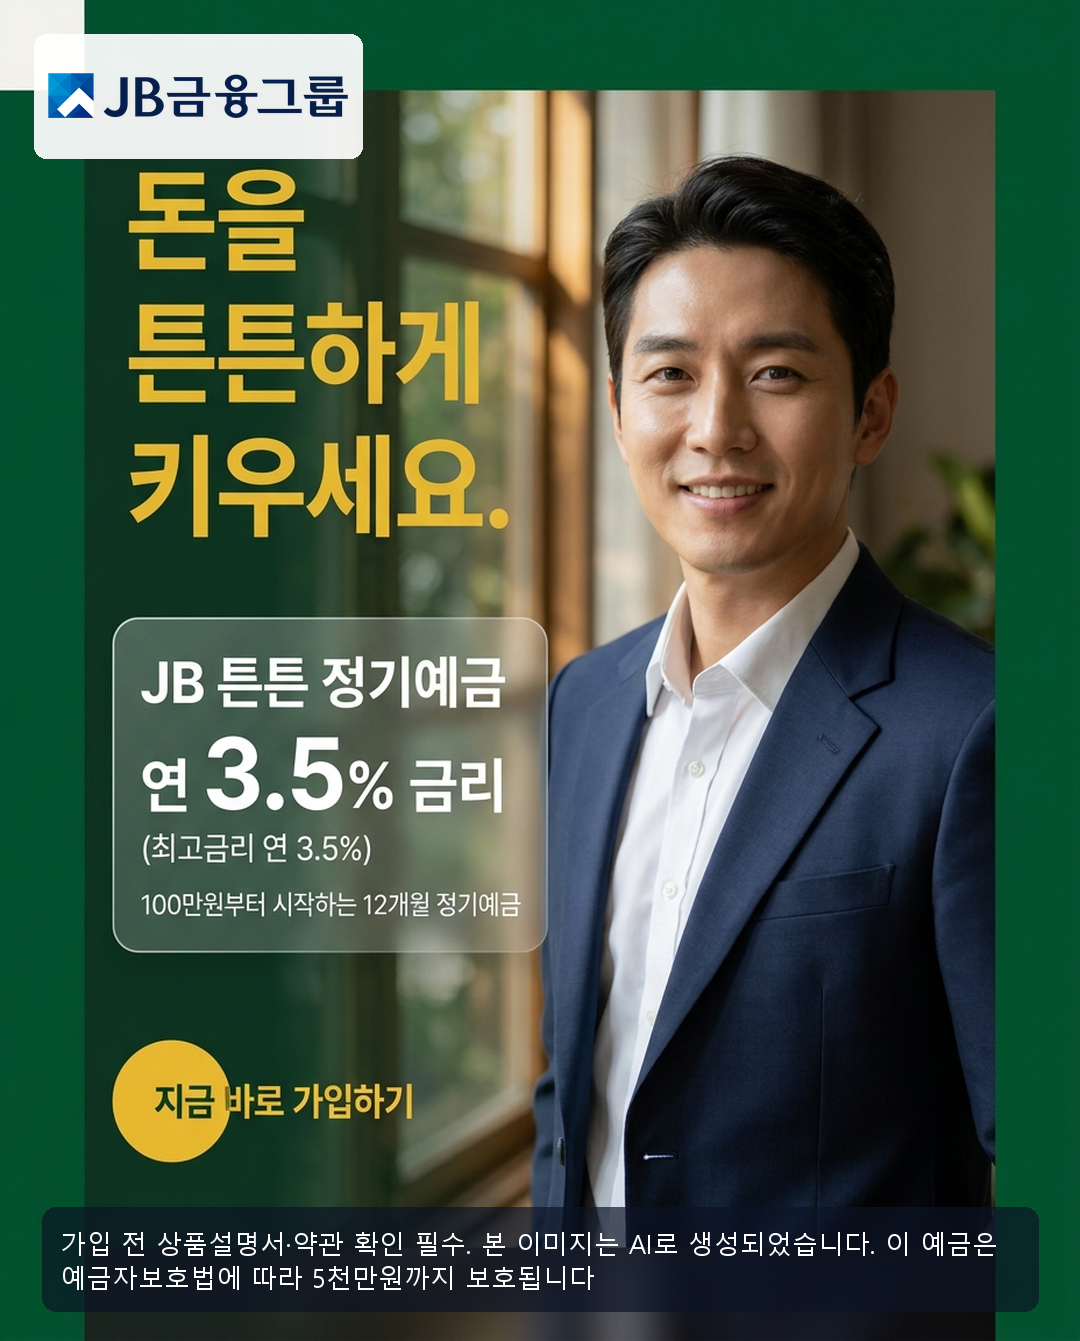
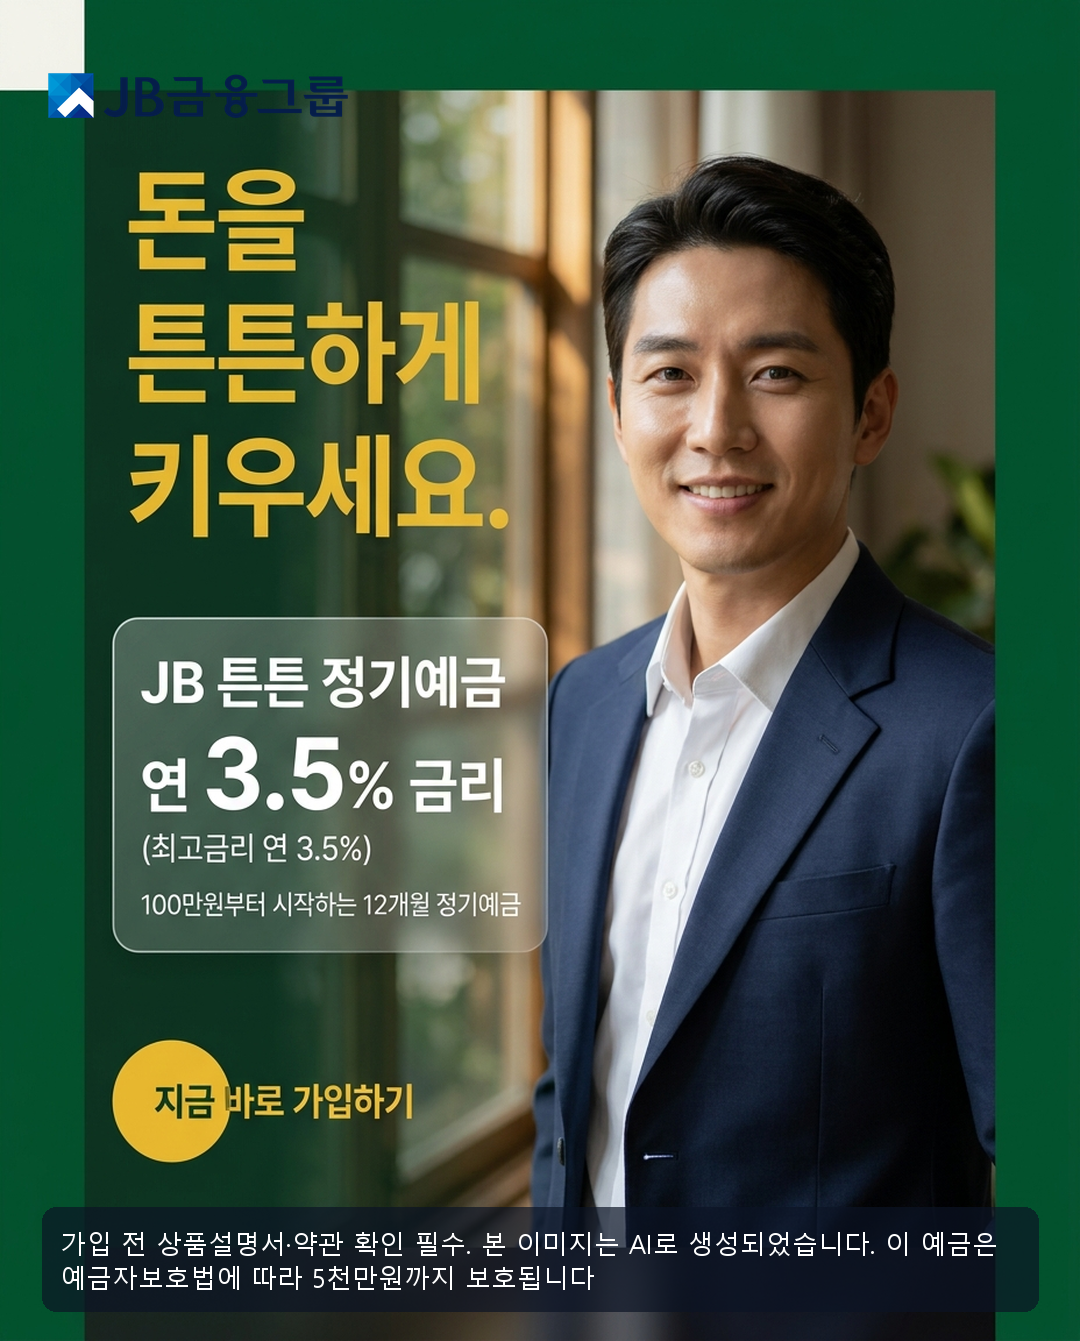
feat(design): 로고 플레이트 제거 — 베이크 세이프존 코너 + 정확 오버레이
플레이트(로고 뒤 흰 카드)가 '얹힌 카드'처럼 포스터와 정합성이 떨어진다는 피드백.
제거하고, 베이크가 좌상단을 밝게 비우게 한 세이프존 코너에 정확한 로고를 오버레이하는
방식으로 확정(베이크=코너 배경, 오버레이=브랜드 정확 로고 — 로고 베이크는 왜곡 위험).
통합감 + 브랜드 정확성 동시 확보. 합성 증빙(composite/) no-plate로 갱신.

scene 테스트 20개(sceneAssembler/sceneWiring/sceneWins) 통과.

Changed region(s): [[0.0306, 0.0, 0.3361, 0.1223]]

diff --git a/frontend/lib/sceneAssembler.ts b/frontend/lib/sceneAssembler.ts
@@ -69,20 +69,9 @@ function scrimFor(bb: BBox, color: string, role: string): any {
   };
 }
 
-/** 로고 뒤 밝은 라운드 플레이트(대비 보장). 배경이 어두우면 네이비 로고가 묻히므로(실측)
- *  로고 bbox보다 살짝 크게 반투명 화이트 판을 깔아 배경과 무관한 가독성을 확보한다
- *  (실제 은행 포스터의 로고 락업 방식). role="logo_plate"라 scrim 카운트에 영향 없음. */
-function logoPlate(bb: BBox): any {
-  const pad = 14;
-  return {
-    type: "rect", left: bb.x - pad, top: bb.y - pad,
-    width: bb.w + pad * 2, height: bb.h + pad * 2,
-    fill: "rgba(255,255,255,0.92)", rx: 12, ry: 12,
-    role: "logo_plate", slotId: "logo",
-  };
-}
-
-/** layout.spec + 언어 → Fabric JSON(toJSON 호환). assetUrl로 asset_ref 해석. */
+/** layout.spec + 언어 → Fabric JSON(toJSON 호환). assetUrl로 asset_ref 해석.
+ *  로고는 별도 플레이트 없이 베이크가 남긴 밝은 세이프존 코너 위에 정확한 오버레이로 얹는다
+ *  (플레이트는 얹힌 카드처럼 정합성이 떨어져 제거 — 베이크가 코너 배경을 담당, 오버레이가 정확 로고). */
 export function assembleScene(
   spec: LayoutSpec, lang: string, assetUrl: (ref: string) => string,
 ): FabricScene {
@@ -101,10 +90,7 @@ export function assembleScene(
         const ref = s.role === "background"
           ? (spec.visual_by_lang?.[lang] ?? s.asset_ref)
           : s.asset_ref;
-        const img = { ...common, type: "image", src: ref ? assetUrl(ref) : "" };
-        // 로고는 대비 보장용 밝은 플레이트를 뒤에 깔고(먼저 방출=낮은 z) 그 위에 로고 이미지.
-        if (s.role === "logo") return [logoPlate(bb), img];
-        return [img];
+        return [{ ...common, type: "image", src: ref ? assetUrl(ref) : "" }];
       }
       // 헤드라인/바디/CTA는 배경에 베이크됨 → 어떤 객체도 방출하지 않음. disclosure만 오버레이.
       if (s.role !== "disclosure") return [];

diff --git a/docs/finals/evidence/live-real-api-rich/README.md b/docs/finals/evidence/live-real-api-rich/README.md
@@ -36,11 +36,13 @@ factsheet를 못 받음. **이중 방어로 차단**:
 금리카드 + 하단 법정 고지 스트립. 완결된 은행 포스터 품질.
 
 폴리시 2건:
-- **로고 대비**: 어두운 배경 위 네이비 로고가 묻히던 문제 → sceneAssembler `logoPlate`가
-  로고 뒤에 밝은 라운드 플레이트를 깔아 배경 무관 가독성 확보(로고 락업 방식).
-- **CTA/고지 겹침**: `_bake_prompt` 세이프존 강화(좌상단 로고 자리 밝게 비우기 + 최하단
-  고지 스트립 예약, CTA는 그 위에)로 CTA가 고지 영역에 침범하지 않게 함. 튼튼 재생성으로
-  겹침 해소 확인.
+- **로고 대비·정합성**: 어두운 배경 위 네이비 로고가 묻히던 문제. 초기엔 로고 뒤 밝은
+  플레이트를 시도했으나 "얹힌 카드"처럼 정합성이 떨어져 제거. 대신 **`_bake_prompt`
+  세이프존이 좌상단을 밝은 오프화이트로 비우게 하고, 그 코너에 정확한 로고를 오버레이**
+  (베이크=코너 배경 담당, 오버레이=브랜드 정확 로고). 통합감 + 정확성 동시 확보.
+  로고를 베이크에 맡기지 않는 이유=gemini가 공식 로고를 왜곡(브랜드 위반).
+- **CTA/고지 겹침**: `_bake_prompt` 세이프존 강화(최하단 고지 스트립 예약, CTA는 그 위에)로
+  CTA가 고지 영역에 침범하지 않게 함. 튼튼 재생성으로 겹침 해소 확인.
 
 ## 알려진 한계 (정직)
 - **여전히 베이크**(개별 텍스트 편집 불가) — 편집 가능성까지 원하면 벡터 레이어 전환(명세 `2026-07-02-rich-editable-vector-layers`). 현재는 그라운딩+검증으로 컴플라이언스는 확보.
